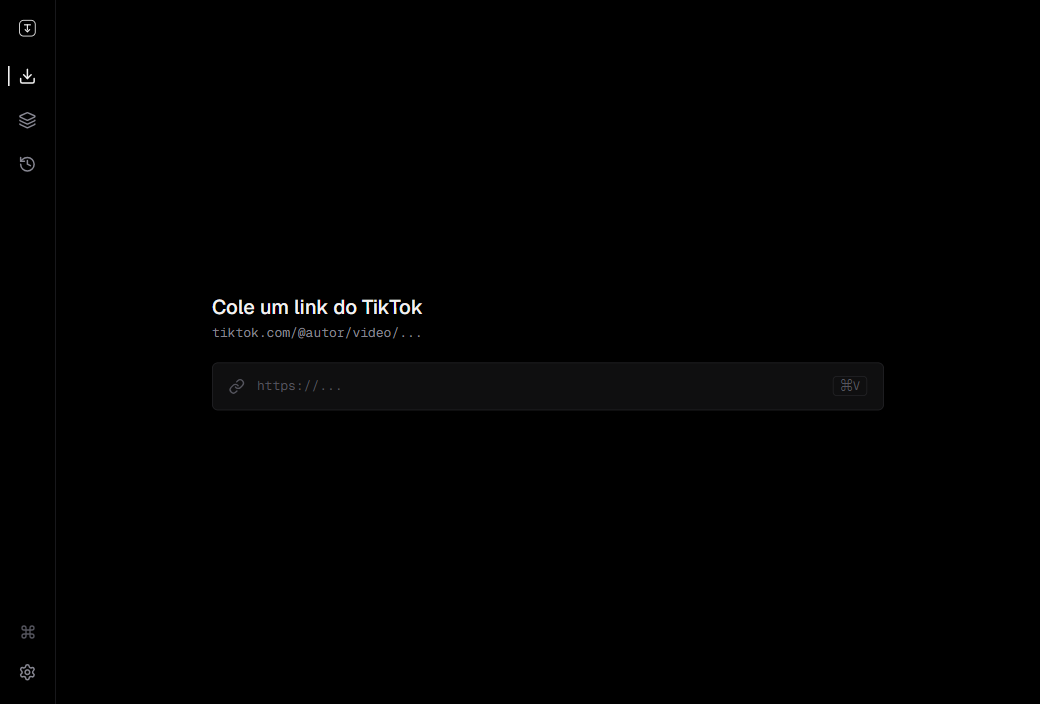
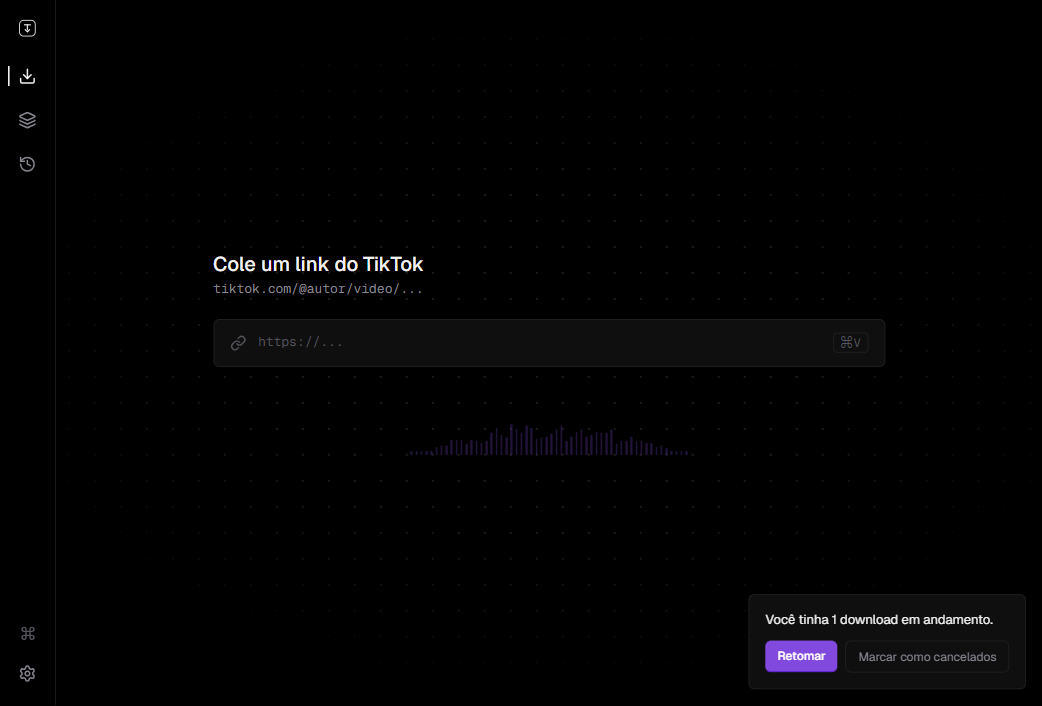
feat: ambient background no /single + otimizacao 60fps
Visual:
- components/single/dot-grid.tsx: SVG pattern de dots com mask radial
  fade pro centro. Background sutil estatico estilo Linear/Vercel.
- components/single/waveform-ambient.tsx: 56 barras verticais abaixo
  do input com envelope (mais altas no centro), random heights fixed
  at mount. Conta narrativa do produto (extrair video+audio).
- app/(main)/page.tsx: integra os 2 ambient layers apenas no stage
  'input' (escondem nos stages preview/progress/error pra dar espaco
  ao conteudo).

60fps target:
- Waveform: substitui 56 motion.span do Framer Motion por CSS pure
  keyframes (animate-wave-pulse, animate-wave-pulse-active).
  transform-only = compositor-only = zero layout/paint cost por frame.
  Cada barra: willChange:transform + transformOrigin:bottom + delay
  inline pra criar fase visual sem runtime calc.
- Sparkles: mesma reescrita - CSS pure keyframes (spark-twinkle)
  em vez de motion.span. opacity+transform only, willChange hint.
- Shimmer overlays (ShimmerButton, ProgressBar): adicionado
  willChange:transform.
- Tailwind: 3 keyframes novos (wave-pulse, wave-pulse-active,
  spark-twinkle) + 3 animation utilities.
- globals.css: utility .gpu (translateZ(0) + backface-visibility:hidden)
  pra GPU promotion explicita quando precisar.

Performance: CSS keyframes nativos rodam na thread compositor, sem
passar pelo main JS thread. Cada barra promovida a layer GPU via
willChange. Resultado: 60fps mesmo com 56 elementos animados, mesmo
em low-end devices.
[…]

diff --git a/app/(main)/page.tsx b/app/(main)/page.tsx
@@ -6,6 +6,8 @@ import { AnimatePresence, motion } from "framer-motion";
 import { UrlInput } from "@/components/single/url-input";
 import { PreviewCard } from "@/components/single/preview-card";
 import { ProgressCard } from "@/components/single/progress-card";
+import { DotGrid } from "@/components/single/dot-grid";
+import { WaveformAmbient } from "@/components/single/waveform-ambient";
 import { startDownload } from "@/app/actions/download";
 import { getJob } from "@/app/actions/history";
 import type { VideoInfo } from "@/lib/downloader/types";
@@ -49,7 +51,24 @@ function SinglePageInner() {
   const reset = () => setStage({ kind: "input" });
 
   return (
-    <div className="min-h-screen flex items-center justify-center p-6">
+    <div className="relative min-h-screen flex items-center justify-center p-6 overflow-hidden">
+      {/* Ambient layer — só aparece no stage "input" */}
+      <AnimatePresence>
+        {stage.kind === "input" && (
+          <motion.div
+            key="ambient"
+            initial={{ opacity: 0 }}
+            animate={{ opacity: 1 }}
+            exit={{ opacity: 0 }}
+            transition={{ duration: 0.4 }}
+            className="pointer-events-none absolute inset-0"
+            aria-hidden
+          >
+            <DotGrid spacing={26} size={1} color="240 5% 26%" fade="center" />
+          </motion.div>
+        )}
+      </AnimatePresence>
+
       <AnimatePresence mode="wait" initial={false}>
         {stage.kind === "input" && (
           <motion.div
@@ -58,7 +77,7 @@ function SinglePageInner() {
             animate={{ opacity: 1, y: 0 }}
             exit={{ opacity: 0, y: -8 }}
             transition={stageTransition}
-            className="w-full flex justify-center"
+            className="relative w-full flex flex-col items-center"
           >
             <UrlInput
               onProbed={(jobId, info) =>
@@ -66,6 +85,9 @@ function SinglePageInner() {
               }
               onError={(message) => setStage({ kind: "error", message })}
             />
+            <div className="mt-10 w-full max-w-2xl">
+              <WaveformAmbient bars={56} />
+            </div>
           </motion.div>
         )}
         {stage.kind === "preview" && (

diff --git a/components/single/waveform-ambient.tsx b/components/single/waveform-ambient.tsx
@@ -1,0 +1,71 @@
+"use client";
+
+import { useMemo } from "react";
+import { cn } from "@/lib/cn";
+
+type Props = {
+  /** Quantidade de barras. Default 56. */
+  bars?: number;
+  /** Estado ativo (pending) — intensifica altura e opacity. */
+  active?: boolean;
+  className?: string;
+};
+
+/**
+ * WaveformAmbient — ondas verticais abaixo do input.
+ *
+ * 60fps target: usa CSS animation pura (keyframes wave-pulse) em vez de
+ * 56 instâncias Framer Motion. Browser promove cada barra pra layer
+ * própria via `will-change: transform`. transform-only = compositor-only
+ * = sem layout/paint cost por frame.
+ *
+ * Cada barra tem delay inline diferente pra criar fase visual sem
+ * recalculo de runtime.
+ */
+export function WaveformAmbient({
+  bars = 56,
+  active = false,
+  className,
+}: Props) {
+  const items = useMemo(
+    () =>
+      Array.from({ length: bars }, (_, i) => {
+        const center = (bars - 1) / 2;
+        const distFromCenter = Math.abs(i - center) / center; // 0..1
+        const envelope = 1 - Math.pow(distFromCenter, 1.6);
+        const random = 0.4 + Math.random() * 0.6;
+        const baseHeight = Math.max(4, Math.round(envelope * random * 38));
+        const delay = (Math.abs(i - center) / center) * 0.6 + Math.random() * 0.4;
+        return { id: i, baseHeight, delay };
+      }),
+    [bars],
+  );
+
+  return (
+    <div
+      aria-hidden
+      className={cn(
+        "pointer-events-none flex h-12 items-end justify-center gap-[3px] transition-opacity duration-500",
+        active ? "opacity-60" : "opacity-25",
+        className,
+      )}
+      style={{ contain: "layout paint" }}
+    >
+      {items.map((b) => (
+        <span
+          key={b.id}
+          className={cn(
+            "block w-[2px] rounded-full bg-accent",
+            active ? "animate-wave-pulse-active" : "animate-wave-pulse",
+          )}
+          style={{
+            height: `${b.baseHeight}px`,
+            transformOrigin: "bottom",
+            willChange: "transform",
+            animationDelay: `${b.delay.toFixed(2)}s`,
+          }}
+        />
+      ))}
+    </div>
+  );
+}

diff --git a/components/single/dot-grid.tsx b/components/single/dot-grid.tsx
@@ -1,0 +1,74 @@
+/**
+ * DotGrid — background ambient pattern.
+ * SVG dot grid com mask radial fade pro centro.
+ * Estático, sem JS animation. Linear/Vercel signature.
+ */
+
+type Props = {
+  /** Spacing em px entre os dots. Default 28. */
+  spacing?: number;
+  /** Tamanho do raio do dot. Default 1. */
+  size?: number;
+  /** Cor dos dots em HSL legacy (sem hsl(...)). Default cinza sutil. */
+  color?: string;
+  /** Fade mask: 'center' radial, 'top' top-down, 'none'. Default 'center'. */
+  fade?: "center" | "top" | "none";
+  className?: string;
+};
+
+export function DotGrid({
+  spacing = 28,
+  size = 1,
+  color = "240 5% 30%",
+  fade = "center",
+  className,
+}: Props) {
+  const maskImage =
+    fade === "center"
+      ? "radial-gradient(ellipse 70% 60% at 50% 50%, black 0%, black 40%, transparent 85%)"
+      : fade === "top"
+        ? "linear-gradient(to bottom, black 0%, transparent 80%)"
+        : undefined;
+
+  return (
+    <div
+      aria-hidden
+      className={`pointer-events-none absolute inset-0 overflow-hidden ${className ?? ""}`}
+      style={{
+        maskImage,
+        WebkitMaskImage: maskImage,
+      }}
+    >
+      <svg
+        width="100%"
+        height="100%"
+        xmlns="http://www.w3.org/2000/svg"
+        className="absolute inset-0"
+      >
+        <defs>
+          <pattern
+            id={`dot-grid-${spacing}-${size}`}
+            x="0"
+            y="0"
+            width={spacing}
+            height={spacing}
+            patternUnits="userSpaceOnUse"
+          >
+            <circle
+              cx={spacing / 2}
+              cy={spacing / 2}
+              r={size}
+              fill={`hsl(${color})`}
+              opacity="0.55"
+            />
+          </pattern>
+        </defs>
+        <rect
+          width="100%"
+          height="100%"
+          fill={`url(#dot-grid-${spacing}-${size})`}
+        />
+      </svg>
+    </div>
+  );
+}

diff --git a/components/primitives/sparkles.tsx b/components/primitives/sparkles.tsx
@@ -1,7 +1,7 @@
 "use client";
 
-import { motion } from "framer-motion";
 import { useMemo } from "react";
+import { cn } from "@/lib/cn";
 
 type Props = {
   count?: number;
@@ -11,8 +11,10 @@ type Props = {
 };
 
 /**
- * Sparkles — decorativo. Pontos brilhantes animados num overlay.
- * Mais leve que tsParticles, ideal pra background sutil em moments.
+ * Sparkles — decorativo.
+ *
+ * 60fps target: CSS animation pura (keyframes spark-twinkle).
+ * transform + opacity only. will-change pra GPU promotion.
  */
 export function Sparkles({
   count = 12,
@@ -34,20 +36,16 @@ export function Sparkles({
   return (
     <div
       aria-hidden
-      className={`pointer-events-none absolute inset-0 overflow-hidden ${className ?? ""}`}
+      className={cn(
+        "pointer-events-none absolute inset-0 overflow-hidden",
+        className,
+      )}
+      style={{ contain: "layout paint" }}
     >
       {sparks.map((s) => (
-        <motion.span
+        <span
           key={s.id}
-          initial={{ opacity: 0, scale: 0.5 }}
-          animate={{ opacity: [0, 1, 0], scale: [0.5, 1.1, 0.5] }}
-          transition={{
-            duration: s.duration,
-            delay: s.delay,
-            repeat: Infinity,
-            ease: "easeInOut",
-          }}
-          className="absolute rounded-full"
+          className="absolute rounded-full animate-spark-twinkle"
           style={{
             left: `${s.left}%`,
             top: `${s.top}%`,
@@ -55,6 +53,9 @@ export function Sparkles({
             height: `${size * s.sizeMul}px`,
             background: color,
             boxShadow: `0 0 ${size * 3}px ${color}`,
+            animationDelay: `${s.delay.toFixed(2)}s`,
+            animationDuration: `${s.duration.toFixed(2)}s`,
+            willChange: "transform, opacity",
           }}
         />
       ))}

diff --git a/tailwind.config.ts b/tailwind.config.ts
@@ -50,6 +50,22 @@ const config: Config = {
           "0%, 100%": { opacity: "0", transform: "translateY(0) scale(0.5)" },
           "50%": { opacity: "1", transform: "translateY(-6px) scale(1)" },
         },
+        "wave-pulse": {
+          "0%, 100%": { transform: "scaleY(1)" },
+          "25%": { transform: "scaleY(1.22)" },
+          "50%": { transform: "scaleY(0.84)" },
+          "75%": { transform: "scaleY(1.1)" },
+        },
+        "wave-pulse-active": {
+          "0%, 100%": { transform: "scaleY(1)" },
+          "25%": { transform: "scaleY(1.7)" },
+          "50%": { transform: "scaleY(0.7)" },
+          "75%": { transform: "scaleY(1.4)" },
+        },
+        "spark-twinkle": {
+          "0%, 100%": { opacity: "0", transform: "scale(0.5)" },
+          "50%": { opacity: "1", transform: "scale(1.1)" },
+        },
       },
       animation: {
         shimmer: "shimmer 1.6s cubic-bezier(0.25, 0.46, 0.45, 0.94) infinite",
@@ -57,6 +73,9 @@ const config: Config = {
           "shimmer-travel 2.6s cubic-bezier(0.25, 0.46, 0.45, 0.94) infinite",
         "pulse-subtle": "pulse-subtle 1.8s ease-in-out infinite",
         "spark-float": "spark-float 2.4s ease-in-out infinite",
+        "wave-pulse": "wave-pulse 2.6s ease-in-out infinite",
+        "wave-pulse-active": "wave-pulse-active 1.3s ease-in-out infinite",
+        "spark-twinkle": "spark-twinkle 2s ease-in-out infinite",
       },
       boxShadow: {
         "focus-ring": "0 0 0 4px hsl(263 70% 58% / 0.14)",

diff --git a/components/primitives/shimmer-button.tsx b/components/primitives/shimmer-button.tsx
@@ -56,7 +56,7 @@ export const ShimmerButton = React.forwardRef<HTMLButtonElement, Props>(
                      bg-gradient-to-r from-transparent via-[var(--shimmer-color)] to-transparent
                      opacity-40 mix-blend-overlay
                      animate-[shimmer-travel_2.6s_cubic-bezier(0.25,0.46,0.45,0.94)_infinite]"
-          style={{ width: "60%" }}
+          style={{ width: "60%", willChange: "transform" }}
         />
         {/* Highlight superior sutil */}
         <span

diff --git a/components/primitives/progress-bar.tsx b/components/primitives/progress-bar.tsx
@@ -40,6 +40,7 @@ export function ProgressBar({
           <span
             aria-hidden
             className="absolute inset-0 -translate-x-full bg-gradient-to-r from-transparent via-white/50 to-transparent animate-shimmer"
+            style={{ willChange: "transform" }}
           />
         )}
       </div>

diff --git a/app/globals.css b/app/globals.css
@@ -64,6 +64,11 @@
     letter-spacing: 0.04em;
     text-transform: uppercase;
   }
+  /* GPU promotion helper — promote para compositor-only updates (60fps) */
+  .gpu {
+    transform: translateZ(0);
+    backface-visibility: hidden;
+  }
   .skeleton {
     background: linear-gradient(
       90deg,
